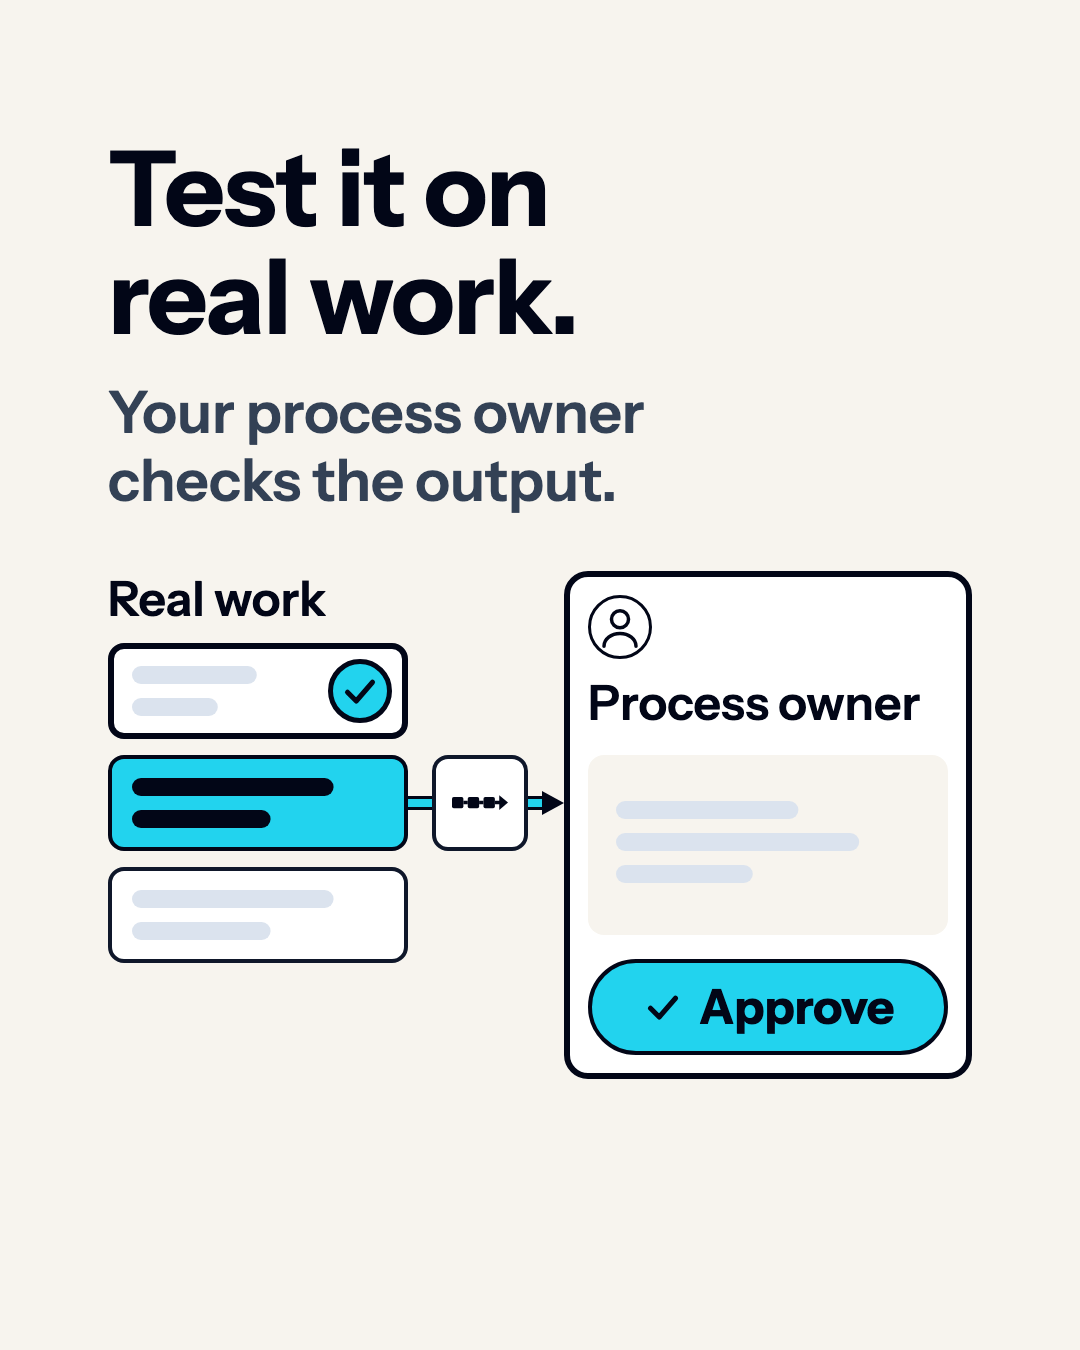
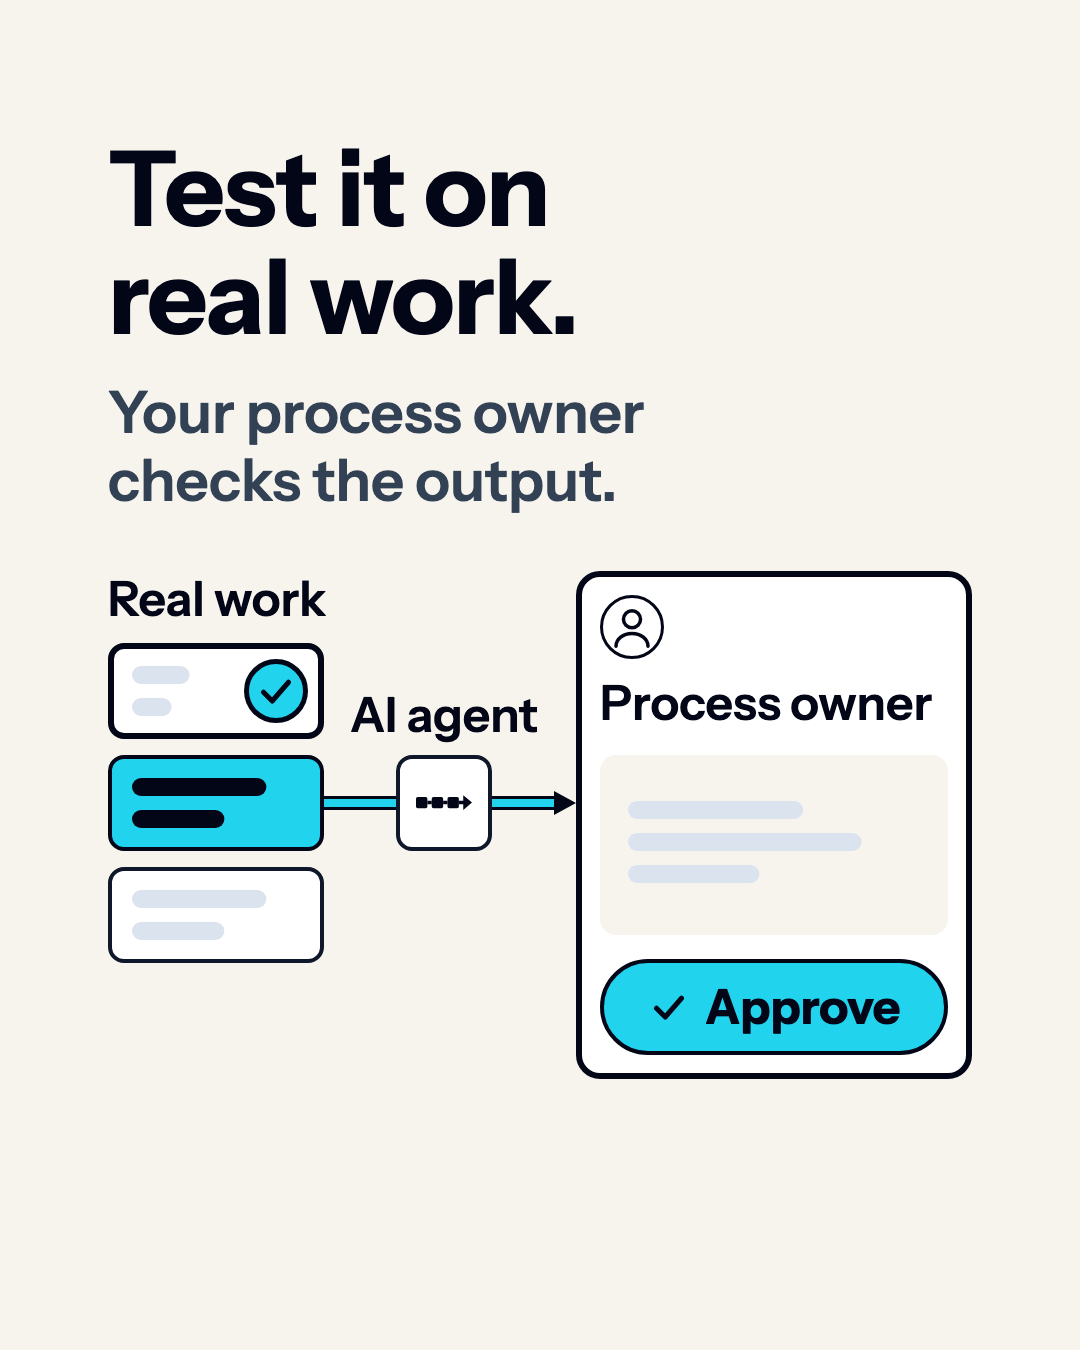
feat(eval): CRO-6814 apply reviewer notes to the 8 explainer stills

diff --git a/content-motion/ai-agent-implementation-explainer-30s/index.html b/content-motion/ai-agent-implementation-explainer-30s/index.html
@@ -70,7 +70,8 @@ const BEATS = [
   { id: "c2l", k: "text", st: "label", col: "ink", lines: ["Ticketing"], x: 596, y: 665, w: 352, h: 56 },
   { id: "lane", k: "pill", fill: "card", stroke: "ink", sw: 6, x: 108, y: 777, w: 864, h: 96 },
   { id: "laneg", k: "glyph", g: "chain", x: 132, y: 797, s: 56 },
-  { id: "lanep", k: "line", style: "agent", pts: [[212, 825], [944, 825]], arrow: true, under: true },
+  { id: "lanel", k: "text", st: "label", col: "ink", lines: ["AI agent"], x: 200, y: 797, w: 210, h: 56 },
+  { id: "lanep", k: "line", style: "agent", pts: [[420, 825], [944, 825]], arrow: true, under: true },
   { id: "item", k: "chip", state: "active", x: 470, y: 793, w: 200, h: 64 },
   { id: "st1", k: "line", style: "plain", pts: [[318, 741], [318, 777]] },
   { id: "st2", k: "line", style: "agent", pts: [[762, 741], [762, 777]] },
@@ -86,69 +87,67 @@ const BEATS = [
  { n: 3, start: 480, end: 660, mid: 570, blocks: [
   { id: "h", k: "text", st: "h1", col: "ink", lines: ["Start with a", "free Live Audit."], x: 108, y: 135, w: 864, h: 224 },
   { id: "s", k: "text", st: "support", col: "slate", lines: ["Leave knowing which", "process comes first."], x: 108, y: 379, w: 864, h: 136, at: 18 },
-  { id: "ta", k: "card", state: "dim", x: 108, y: 571, w: 504, h: 132 },
-  { id: "tag1", k: "glyph", g: "inbox", x: 148, y: 609, s: 56, col: "slate" },
-  { id: "taa", k: "line", style: "plain", pts: [[220, 637], [280, 637]], arrow: true, col: "slate" },
-  { id: "tag2", k: "glyph", g: "ticket", x: 296, y: 609, s: 56, col: "slate" },
-  { id: "tab", k: "bars", x: 384, y: 621, w: 180, n: 2, col: "rule" },
-  { id: "tb", k: "card", state: "active", x: 108, y: 727, w: 504, h: 132 },
-  { id: "tbg1", k: "glyph", g: "ticket", x: 148, y: 765, s: 56 },
-  { id: "tba", k: "line", style: "plain", pts: [[220, 793], [280, 793]], arrow: true },
-  { id: "tbg2", k: "glyph", g: "crm", x: 296, y: 765, s: 56 },
-  { id: "tbb", k: "bars", x: 384, y: 777, w: 120, n: 2, col: "rule" },
-  { id: "tbk", k: "badge", x: 528, y: 747 },
-  { id: "tc", k: "card", state: "dim", x: 108, y: 883, w: 504, h: 132 },
-  { id: "tcg1", k: "glyph", g: "docs", x: 148, y: 921, s: 56, col: "slate" },
-  { id: "tca", k: "line", style: "plain", pts: [[220, 949], [280, 949]], arrow: true, col: "slate" },
-  { id: "tcg2", k: "glyph", g: "crm", x: 296, y: 921, s: 56, col: "slate" },
-  { id: "tcb", k: "bars", x: 384, y: 933, w: 180, n: 2, col: "rule" },
-  { id: "pill", k: "pill", fill: "card", stroke: "graphite", sw: 4, x: 648, y: 571, w: 324, h: 80 },
-  { id: "pillt", k: "text", st: "label", col: "ink", al: "center", lines: ["20 minutes"], x: 664, y: 583, w: 292, h: 56 },
-  { id: "con", k: "line", style: "plain", pts: [[612, 793], [738, 793]] },
-  { id: "p", k: "person", x: 738, y: 733, d: 120 },
-  { id: "pl", k: "text", st: "label", col: "ink", al: "center", lines: ["Process", "owner"], x: 648, y: 869, w: 324, h: 112 }
+  { id: "p", k: "person", x: 108, y: 571, d: 96 },
+  { id: "pl", k: "text", st: "label", col: "ink", lines: ["Process owner"], x: 220, y: 591, w: 380, h: 56 },
+  { id: "pill", k: "pill", fill: "card", stroke: "graphite", sw: 4, x: 648, y: 579, w: 324, h: 80 },
+  { id: "pillt", k: "text", st: "label", col: "ink", al: "center", lines: ["20 minutes"], x: 664, y: 591, w: 292, h: 56 },
+  { id: "pick", k: "line", style: "plain", pts: [[156, 667], [156, 699]] },
+  { id: "ta", k: "card", state: "active", x: 108, y: 699, w: 864, h: 112 },
+  { id: "tag", k: "glyph", g: "ticket", x: 148, y: 727, s: 56 },
+  { id: "tal", k: "text", st: "label", col: "ink", lines: ["Ticket triage"], x: 228, y: 727, w: 500, h: 56 },
+  { id: "tak", k: "badge", x: 880, y: 723 },
+  { id: "tb", k: "card", state: "dim", x: 108, y: 827, w: 864, h: 112 },
+  { id: "tbg", k: "glyph", g: "crm", x: 148, y: 855, s: 56, col: "slate" },
+  { id: "tbl", k: "text", st: "label", col: "slate", lines: ["CRM updates"], x: 228, y: 855, w: 500, h: 56 },
+  { id: "tc", k: "card", state: "dim", x: 108, y: 955, w: 864, h: 112 },
+  { id: "tcg", k: "glyph", g: "inbox", x: 148, y: 983, s: 56, col: "slate" },
+  { id: "tcl", k: "text", st: "label", col: "slate", lines: ["Inbox routing"], x: 228, y: 983, w: 500, h: 56 }
  ]},
  { n: 4, start: 660, end: 900, mid: 780, blocks: [
   { id: "h", k: "text", st: "h1", col: "ink", lines: ["Build it in", "your workflow."], x: 108, y: 135, w: 864, h: 224 },
   { id: "s", k: "text", st: "support", col: "slate", lines: ["Your tools stay the", "system of record."], x: 108, y: 379, w: 864, h: 136, at: 18 },
   { id: "el", k: "text", st: "label", col: "ink", lines: ["Existing tools"], x: 108, y: 571, w: 864, h: 56 },
-  { id: "t1", k: "card", state: "default", r: 16, x: 108, y: 643, w: 264, h: 150 },
-  { id: "t1g", k: "glyph", g: "inbox", x: 208, y: 686, s: 64 },
-  { id: "t2", k: "card", state: "active", r: 16, x: 408, y: 643, w: 264, h: 150 },
-  { id: "t2g", k: "glyph", g: "ticket", x: 518, y: 686, s: 64 },
-  { id: "t3", k: "card", state: "default", r: 16, x: 708, y: 643, w: 264, h: 150 },
-  { id: "t3g", k: "glyph", g: "crm", x: 808, y: 686, s: 64 },
-  { id: "sb1", k: "line", style: "plain", pts: [[240, 793], [240, 853]] },
-  { id: "sb2", k: "line", style: "agent", pts: [[540, 793], [540, 853]] },
-  { id: "sb3", k: "line", style: "plain", pts: [[840, 793], [840, 853]] },
-  { id: "wf", k: "card", state: "strong", x: 108, y: 853, w: 864, h: 226 },
-  { id: "wfg", k: "glyph", g: "chain", x: 136, y: 877, s: 64 },
-  { id: "wfl", k: "text", st: "label", col: "ink", lines: ["Agent workflow"], x: 220, y: 881, w: 400, h: 56 },
-  { id: "p12", k: "line", style: "agent", pts: [[232, 1011], [504, 1011]], arrow: true },
-  { id: "p23", k: "line", style: "plain", pts: [[576, 1011], [848, 1011]] },
-  { id: "s1", k: "step", v: "done", x: 160, y: 975, s: 72 },
-  { id: "s2", k: "step", v: "active", x: 504, y: 975, s: 72 },
-  { id: "s3", k: "step", v: "future", x: 848, y: 975, s: 72 }
+  { id: "t1", k: "card", state: "default", r: 16, x: 108, y: 643, w: 264, h: 130 },
+  { id: "t1g", k: "glyph", g: "inbox", x: 208, y: 676, s: 64 },
+  { id: "t2", k: "card", state: "active", r: 16, x: 408, y: 643, w: 264, h: 130 },
+  { id: "t2g", k: "glyph", g: "ticket", x: 518, y: 676, s: 64 },
+  { id: "t3", k: "card", state: "default", r: 16, x: 708, y: 643, w: 264, h: 130 },
+  { id: "t3g", k: "glyph", g: "crm", x: 808, y: 676, s: 64 },
+  { id: "sb1", k: "line", style: "plain", pts: [[240, 773], [240, 813]] },
+  { id: "sb2", k: "line", style: "agent", pts: [[540, 773], [540, 813]] },
+  { id: "sb3", k: "line", style: "plain", pts: [[840, 773], [840, 813]] },
+  { id: "wf", k: "card", state: "strong", x: 108, y: 813, w: 864, h: 271 },
+  { id: "wfg", k: "glyph", g: "chain", x: 136, y: 837, s: 64 },
+  { id: "wfl", k: "text", st: "label", col: "ink", lines: ["AI agent workflow"], x: 220, y: 841, w: 700, h: 56 },
+  { id: "p12", k: "line", style: "agent", pts: [[280, 957], [504, 957]], arrow: true },
+  { id: "p23", k: "line", style: "plain", pts: [[576, 957], [800, 957]] },
+  { id: "s1", k: "step", v: "done", x: 208, y: 921, s: 72 },
+  { id: "s2", k: "step", v: "active", x: 504, y: 921, s: 72 },
+  { id: "s3", k: "step", v: "future", x: 800, y: 921, s: 72 },
+  { id: "s1l", k: "text", st: "label", col: "ink", al: "center", lines: ["Read"], x: 118, y: 1009, w: 252, h: 56 },
+  { id: "s2l", k: "text", st: "label", col: "ink", al: "center", lines: ["Route"], x: 414, y: 1009, w: 252, h: 56 },
+  { id: "s3l", k: "text", st: "label", col: "ink", al: "center", lines: ["Approve"], x: 710, y: 1009, w: 252, h: 56 }
  ]},
  { n: 5, start: 900, end: 1140, mid: 1020, blocks: [
   { id: "h", k: "text", st: "h1", col: "ink", lines: ["Test it on", "real work."], x: 108, y: 135, w: 864, h: 224 },
   { id: "s", k: "text", st: "support", col: "slate", lines: ["Your process owner", "checks the output."], x: 108, y: 379, w: 864, h: 136, at: 18 },
   { id: "rw", k: "text", st: "label", col: "ink", lines: ["Real work"], x: 108, y: 571, w: 300, h: 56 },
-  { id: "w1", k: "chip", state: "approved", x: 108, y: 643, w: 300, h: 96 },
-  { id: "w1b", k: "badge", x: 328, y: 659 },
-  { id: "w2", k: "chip", state: "active", x: 108, y: 755, w: 300, h: 96 },
-  { id: "w3", k: "chip", state: "default", x: 108, y: 867, w: 300, h: 96 },
-  { id: "pin", k: "line", style: "agent", pts: [[408, 803], [432, 803]] },
-  { id: "at", k: "card", state: "default", r: 16, x: 432, y: 755, w: 96, h: 96 },
-  { id: "atg", k: "glyph", g: "chain", x: 452, y: 775, s: 56 },
-  { id: "pout", k: "line", style: "agent", pts: [[528, 803], [564, 803]], arrow: true },
-  { id: "rv", k: "card", state: "strong", x: 564, y: 571, w: 408, h: 508 },
-  { id: "rvp", k: "person", x: 588, y: 595, d: 64 },
-  { id: "rvl", k: "text", st: "label", col: "ink", lines: ["Process owner"], x: 588, y: 675, w: 360, h: 56 },
-  { id: "rvo", k: "panel", x: 588, y: 755, w: 360, h: 180 },
-  { id: "ap", k: "pill", fill: "accent", stroke: "ink", sw: 4, x: 588, y: 959, w: 360, h: 96 },
-  { id: "apc", k: "check", x: 643, y: 987, s: 40 },
-  { id: "apt", k: "text", st: "buttonSm", col: "ink", lines: ["Approve"], x: 699, y: 979, w: 210, h: 56 }
+  { id: "w1", k: "chip", state: "approved", x: 108, y: 643, w: 216, h: 96 },
+  { id: "w1b", k: "badge", x: 244, y: 659 },
+  { id: "w2", k: "chip", state: "active", x: 108, y: 755, w: 216, h: 96 },
+  { id: "w3", k: "chip", state: "default", x: 108, y: 867, w: 216, h: 96 },
+  { id: "atl", k: "text", st: "label", col: "ink", al: "center", lines: ["AI agent"], x: 344, y: 687, w: 200, h: 56 },
+  { id: "pin", k: "line", style: "agent", pts: [[324, 803], [396, 803]] },
+  { id: "at", k: "card", state: "default", r: 16, x: 396, y: 755, w: 96, h: 96 },
+  { id: "atg", k: "glyph", g: "chain", x: 416, y: 775, s: 56 },
+  { id: "pout", k: "line", style: "agent", pts: [[492, 803], [576, 803]], arrow: true },
+  { id: "rv", k: "card", state: "strong", x: 576, y: 571, w: 396, h: 508 },
+  { id: "rvp", k: "person", x: 600, y: 595, d: 64 },
+  { id: "rvl", k: "text", st: "label", col: "ink", lines: ["Process owner"], x: 600, y: 675, w: 352, h: 56 },
+  { id: "rvo", k: "panel", x: 600, y: 755, w: 348, h: 180 },
+  { id: "ap", k: "pill", fill: "accent", stroke: "ink", sw: 4, x: 600, y: 959, w: 348, h: 96 },
+  { id: "apc", k: "check", x: 649, y: 987, s: 40 },
+  { id: "apt", k: "text", st: "buttonSm", col: "ink", lines: ["Approve"], x: 705, y: 979, w: 210, h: 56 }
  ]},
  { n: 6, start: 1140, end: 1380, mid: 1260, blocks: [
   { id: "h", k: "text", st: "h1", col: "ink", lines: ["Live in"], x: 108, y: 135, w: 864, h: 108 },
@@ -160,9 +159,12 @@ const BEATS = [
   { id: "win", k: "window", x: 540, y: 970, w: 432, h: 20, under: true },
   { id: "k1", k: "tick", x: 537, y: 950, w: 6, h: 60 },
   { id: "k2", k: "tick", x: 966, y: 950, w: 6, h: 60 },
+  { id: "g1l", k: "text", st: "label", col: "ink", lines: ["Audit"], x: 108, y: 880, w: 150, h: 56 },
+  { id: "g2l", k: "text", st: "label", col: "ink", lines: ["Build"], x: 268, y: 880, w: 150, h: 56 },
+  { id: "g3l", k: "text", st: "label", col: "ink", lines: ["Test"], x: 428, y: 880, w: 104, h: 56 },
   { id: "g1", k: "stage", g: "check", x: 108, y: 944, done: true },
-  { id: "g2", k: "stage", g: "chain", x: 236, y: 944, done: true },
-  { id: "g3", k: "stage", g: "person", x: 364, y: 944, done: true },
+  { id: "g2", k: "stage", g: "chain", x: 268, y: 944, done: true },
+  { id: "g3", k: "stage", g: "person", x: 428, y: 944, done: true },
   { id: "g4", k: "stage", g: "flag", x: 720, y: 944, live: true },
   { id: "w2", k: "text", st: "label", col: "ink", al: "center", lines: ["Week 2"], x: 450, y: 1028, w: 180, h: 56 },
   { id: "w6", k: "text", st: "label", col: "ink", al: "right", lines: ["Week 6"], x: 792, y: 1028, w: 180, h: 56 }
@@ -170,37 +172,39 @@ const BEATS = [
  { n: 7, start: 1380, end: 1560, mid: 1470, blocks: [
   { id: "h", k: "text", st: "h1", col: "ink", lines: ["The agent", "handles the", "repeatable work."], x: 108, y: 135, w: 864, h: 332 },
   { id: "s", k: "text", st: "support", col: "slate", lines: ["Your team stays in control."], x: 108, y: 487, w: 864, h: 68, at: 18 },
-  { id: "l1", k: "card", state: "dim", r: 16, x: 108, y: 611, w: 420, h: 88 },
-  { id: "l1p", k: "person", x: 132, y: 631, d: 48, dim: true },
-  { id: "l1t", k: "text", st: "label", col: "slate", lines: ["Draft"], x: 196, y: 627, w: 300, h: 56 },
-  { id: "lm1", k: "line", style: "manual", pts: [[156, 699], [156, 715]], short: true },
-  { id: "l2", k: "card", state: "dim", r: 16, x: 108, y: 715, w: 420, h: 88 },
-  { id: "l2p", k: "person", x: 132, y: 735, d: 48, dim: true },
-  { id: "l2t", k: "text", st: "label", col: "slate", lines: ["Route"], x: 196, y: 731, w: 300, h: 56 },
-  { id: "lm2", k: "line", style: "manual", pts: [[156, 803], [156, 819]], short: true },
-  { id: "l3", k: "card", state: "dim", r: 16, x: 108, y: 819, w: 420, h: 88 },
-  { id: "l3p", k: "person", x: 132, y: 839, d: 48, dim: true },
-  { id: "l3t", k: "text", st: "label", col: "slate", lines: ["Update"], x: 196, y: 835, w: 300, h: 56 },
-  { id: "lm3", k: "line", style: "manual", pts: [[156, 907], [156, 923]], short: true },
-  { id: "l4", k: "card", state: "dim", r: 16, x: 108, y: 923, w: 420, h: 88 },
-  { id: "l4p", k: "person", x: 132, y: 943, d: 48, dim: true },
-  { id: "l4t", k: "text", st: "label", col: "slate", lines: ["Approve"], x: 196, y: 939, w: 300, h: 56 },
-  { id: "r1", k: "card", state: "active", r: 16, x: 552, y: 611, w: 420, h: 88 },
-  { id: "r1g", k: "glyph", g: "chain", x: 596, y: 631, s: 48 },
-  { id: "r1t", k: "text", st: "label", col: "ink", lines: ["Draft"], x: 660, y: 627, w: 290, h: 56 },
-  { id: "rm1", k: "line", style: "agent", pts: [[620, 699], [620, 715]] },
-  { id: "r2", k: "card", state: "active", r: 16, x: 552, y: 715, w: 420, h: 88 },
-  { id: "r2g", k: "glyph", g: "chain", x: 596, y: 735, s: 48 },
-  { id: "r2t", k: "text", st: "label", col: "ink", lines: ["Route"], x: 660, y: 731, w: 290, h: 56 },
-  { id: "rm2", k: "line", style: "agent", pts: [[620, 803], [620, 819]] },
-  { id: "r3", k: "card", state: "active", r: 16, x: 552, y: 819, w: 420, h: 88 },
-  { id: "r3g", k: "glyph", g: "chain", x: 596, y: 839, s: 48 },
-  { id: "r3t", k: "text", st: "label", col: "ink", lines: ["Update"], x: 660, y: 835, w: 290, h: 56 },
-  { id: "rm3", k: "line", style: "agent", pts: [[620, 907], [620, 923]] },
-  { id: "r4", k: "card", state: "approved", r: 16, x: 552, y: 923, w: 420, h: 88 },
-  { id: "r4p", k: "person", x: 596, y: 943, d: 48 },
-  { id: "r4t", k: "text", st: "label", col: "ink", lines: ["Approve"], x: 660, y: 939, w: 210, h: 56 },
-  { id: "r4b", k: "badge", x: 888, y: 935 }
+  { id: "hl", k: "text", st: "label", col: "slate", lines: ["By hand"], x: 108, y: 587, w: 420, h: 56 },
+  { id: "hr", k: "text", st: "label", col: "ink", lines: ["AI agent"], x: 552, y: 587, w: 420, h: 56 },
+  { id: "l1", k: "card", state: "dim", r: 16, x: 108, y: 671, w: 420, h: 88 },
+  { id: "l1p", k: "person", x: 132, y: 691, d: 48, dim: true },
+  { id: "l1t", k: "text", st: "label", col: "slate", lines: ["Draft"], x: 196, y: 687, w: 300, h: 56 },
+  { id: "lm1", k: "line", style: "manual", pts: [[156, 759], [156, 775]], short: true },
+  { id: "l2", k: "card", state: "dim", r: 16, x: 108, y: 775, w: 420, h: 88 },
+  { id: "l2p", k: "person", x: 132, y: 795, d: 48, dim: true },
+  { id: "l2t", k: "text", st: "label", col: "slate", lines: ["Route"], x: 196, y: 791, w: 300, h: 56 },
+  { id: "lm2", k: "line", style: "manual", pts: [[156, 863], [156, 879]], short: true },
+  { id: "l3", k: "card", state: "dim", r: 16, x: 108, y: 879, w: 420, h: 88 },
+  { id: "l3p", k: "person", x: 132, y: 899, d: 48, dim: true },
+  { id: "l3t", k: "text", st: "label", col: "slate", lines: ["Update"], x: 196, y: 895, w: 300, h: 56 },
+  { id: "lm3", k: "line", style: "manual", pts: [[156, 967], [156, 983]], short: true },
+  { id: "l4", k: "card", state: "dim", r: 16, x: 108, y: 983, w: 420, h: 88 },
+  { id: "l4p", k: "person", x: 132, y: 1003, d: 48, dim: true },
+  { id: "l4t", k: "text", st: "label", col: "slate", lines: ["Approve"], x: 196, y: 999, w: 300, h: 56 },
+  { id: "r1", k: "card", state: "active", r: 16, x: 552, y: 671, w: 420, h: 88 },
+  { id: "r1g", k: "glyph", g: "chain", x: 596, y: 691, s: 48 },
+  { id: "r1t", k: "text", st: "label", col: "ink", lines: ["Draft"], x: 660, y: 687, w: 290, h: 56 },
+  { id: "rm1", k: "line", style: "agent", pts: [[620, 759], [620, 775]] },
+  { id: "r2", k: "card", state: "active", r: 16, x: 552, y: 775, w: 420, h: 88 },
+  { id: "r2g", k: "glyph", g: "chain", x: 596, y: 795, s: 48 },
+  { id: "r2t", k: "text", st: "label", col: "ink", lines: ["Route"], x: 660, y: 791, w: 290, h: 56 },
+  { id: "rm2", k: "line", style: "agent", pts: [[620, 863], [620, 879]] },
+  { id: "r3", k: "card", state: "active", r: 16, x: 552, y: 879, w: 420, h: 88 },
+  { id: "r3g", k: "glyph", g: "chain", x: 596, y: 899, s: 48 },
+  { id: "r3t", k: "text", st: "label", col: "ink", lines: ["Update"], x: 660, y: 895, w: 290, h: 56 },
+  { id: "rm3", k: "line", style: "agent", pts: [[620, 967], [620, 983]] },
+  { id: "r4", k: "card", state: "approved", r: 16, x: 552, y: 983, w: 420, h: 88 },
+  { id: "r4p", k: "person", x: 596, y: 1003, d: 48 },
+  { id: "r4t", k: "text", st: "label", col: "ink", lines: ["Approve"], x: 660, y: 999, w: 210, h: 56 },
+  { id: "r4b", k: "badge", x: 888, y: 995 }
  ]},
  { n: 8, start: 1560, end: 1800, mid: 1680, blocks: [
   { id: "h", k: "text", st: "h1", col: "ink", lines: ["AI Agent", "Implementation"], x: 108, y: 135, w: 864, h: 224 },
@@ -211,7 +215,11 @@ const BEATS = [
   { id: "d1", k: "stage", g: "check", x: 108, y: 903 },
   { id: "d2", k: "stage", g: "chain", x: 372, y: 903 },
   { id: "d3", k: "stage", g: "person", x: 636, y: 903 },
-  { id: "d4", k: "stage", g: "flag", x: 900, y: 903, live: true }
+  { id: "d4", k: "stage", g: "flag", x: 900, y: 903, live: true },
+  { id: "d1l", k: "text", st: "label", col: "ink", lines: ["Audit"], x: 108, y: 995, w: 200, h: 56 },
+  { id: "d2l", k: "text", st: "label", col: "ink", al: "center", lines: ["Build"], x: 308, y: 995, w: 200, h: 56 },
+  { id: "d3l", k: "text", st: "label", col: "ink", al: "center", lines: ["Test"], x: 572, y: 995, w: 200, h: 56 },
+  { id: "d4l", k: "text", st: "label", col: "ink", al: "right", lines: ["Go live"], x: 772, y: 995, w: 200, h: 56 }
  ]}
 ];
 

diff --git a/content-motion/ai-agent-implementation-explainer-30s/DESIGN.md b/content-motion/ai-agent-implementation-explainer-30s/DESIGN.md
@@ -312,3 +312,14 @@ The final frame is static from 27.0 s. Accent: CTA button and live tile. Nothing
 - Beat 4 shows the three existing tools as icon tiles under the group label "Existing tools" (each tool was named in beats 1 and 2). At 264 px wide, individual 48 px labels would not fit.
 - Beat 6 uses the three storyboard labels as: "Week 2" and "Week 6" as rail ticks bounding the go-live window, "Go live" as a pill over that window. The four stages are shown as tiles without labels.
 - Offer facts conflict to resolve before the video: the live service page (`content/services/ai-agent-implementation.md`) is now titled "Build Queue" and promises the first agent live in 10 business days, while this storyboard says "AI Agent Implementation" and "2 to 6 weeks". This spec follows the storyboard as instructed. The Live Audit CTA and "you leave knowing which process goes first" do match the page.
+
+### 2026-10-29 additions for reviewer notes
+
+These labels are additions to the storyboard's labels, made to answer three reviewer notes (name the agent, name the stages, scale up and name the beat 3 and 4 graphics). No storyboard word was removed or changed.
+
+- Beats 2 to 7 label the agent glyph. Beat 2 adds "AI agent" inside the agent lane. Beat 4's workflow card reads "AI agent workflow" and beat 5 labels the agent tile "AI agent"; both are a superset of the storyboard's agent wording. Beat 7 adds column headers "By hand" (slate, over the manual column) and "AI agent" (ink, over the agent column).
+- Beat 3 replaces the abstract bar cards with three named task cards: "Ticket triage" (selected, with the approved badge), "CRM updates" and "Inbox routing" (dimmed). "Process owner" now sits beside the person glyph at the top of the column, with a short line down to the selected card.
+- Beat 4 names the three workflow steps "Read", "Route" and "Approve", and the graphic grows: tool cards 130 px tall, workflow card 271 px tall ending at y 1084.
+- Beat 6 names the first three stage tiles "Audit", "Build" and "Test" (the existing "Go live" pill names the fourth). The three tiles are spaced 160 px apart so the labels do not run together at phone size. This supersedes the earlier note that the stages are shown without labels.
+- Beat 8 names the four timeline tiles "Audit", "Build", "Test" and "Go live" under the rail.
+- Beat 5 layout: the work chips are 216 px wide and the review card is 396 px wide, so the "AI agent" label has clear space on both sides.
